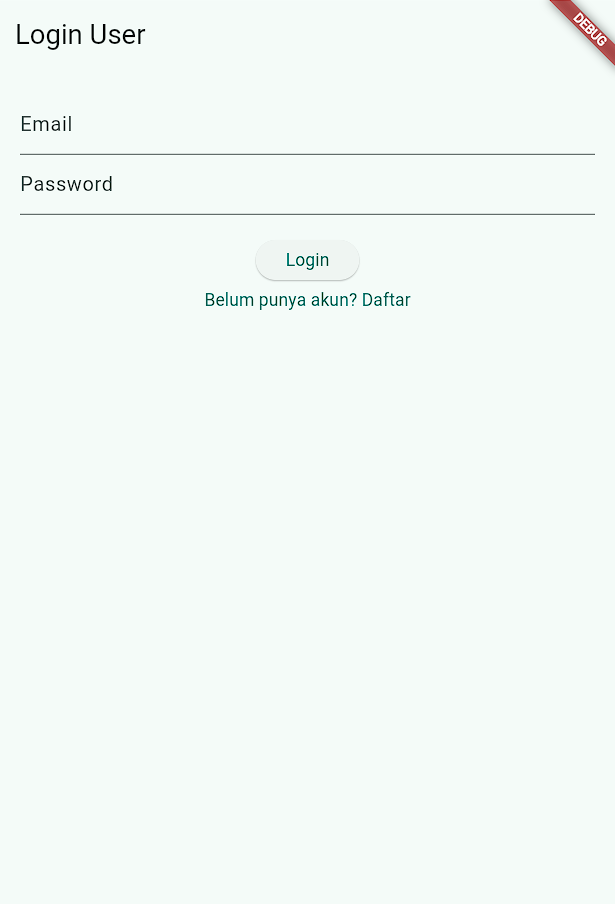
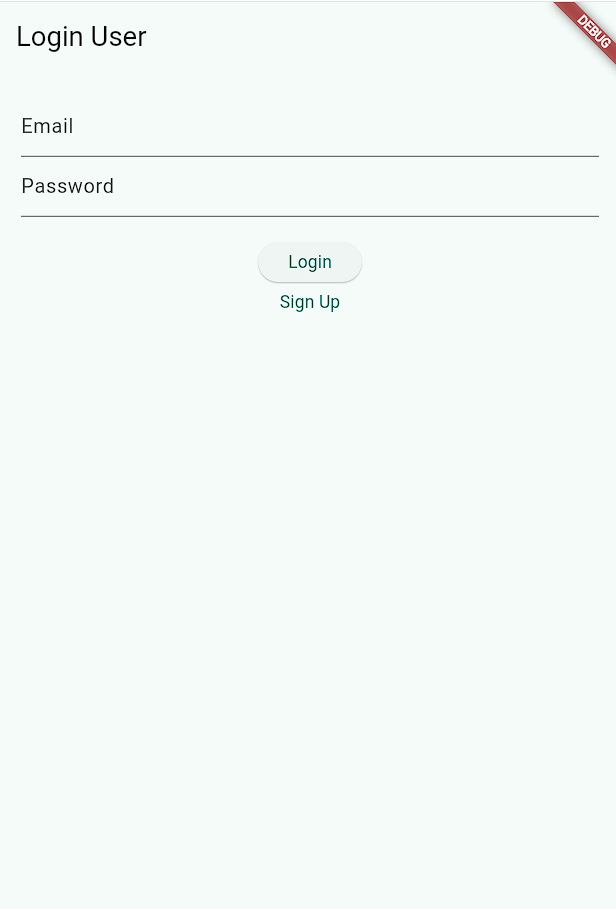
commit

diff --git a/lib/screens/login_screen.dart b/lib/screens/login_screen.dart
@@ -67,8 +67,8 @@ class _LoginScreenState extends State<LoginScreen> {
               TextButton(
                 onPressed: () => setState(() => isLogin = !isLogin),
                 child: Text(isLogin
-                    ? 'Belum punya akun? Daftar'
-                    : 'Sudah punya akun? Login'),
+                    ? 'Sign Up'
+                    : 'Back to Login'),
               )
             ],
           ),
